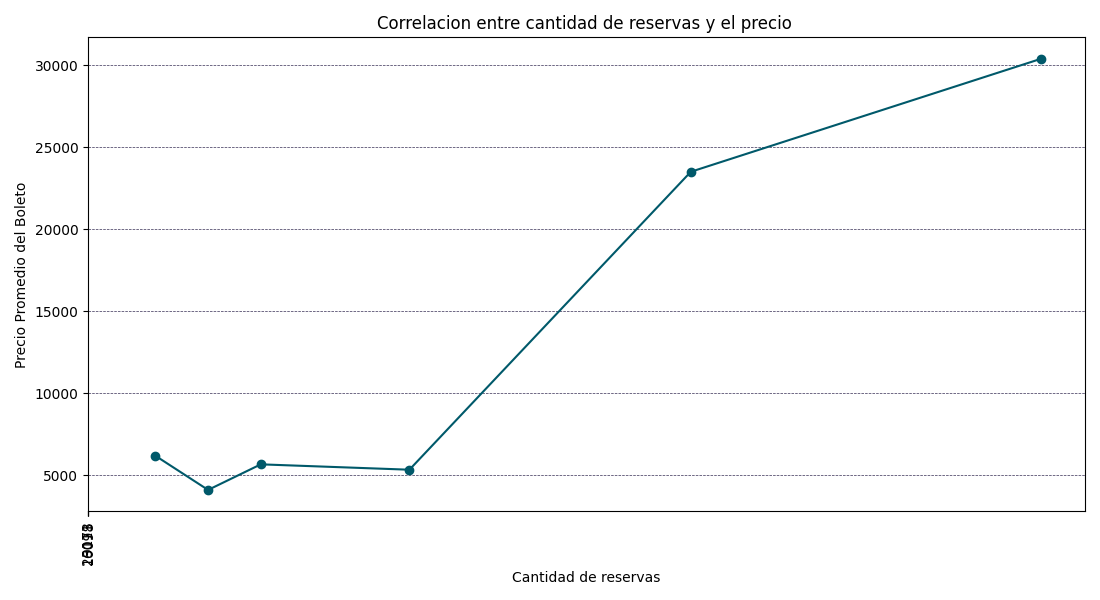
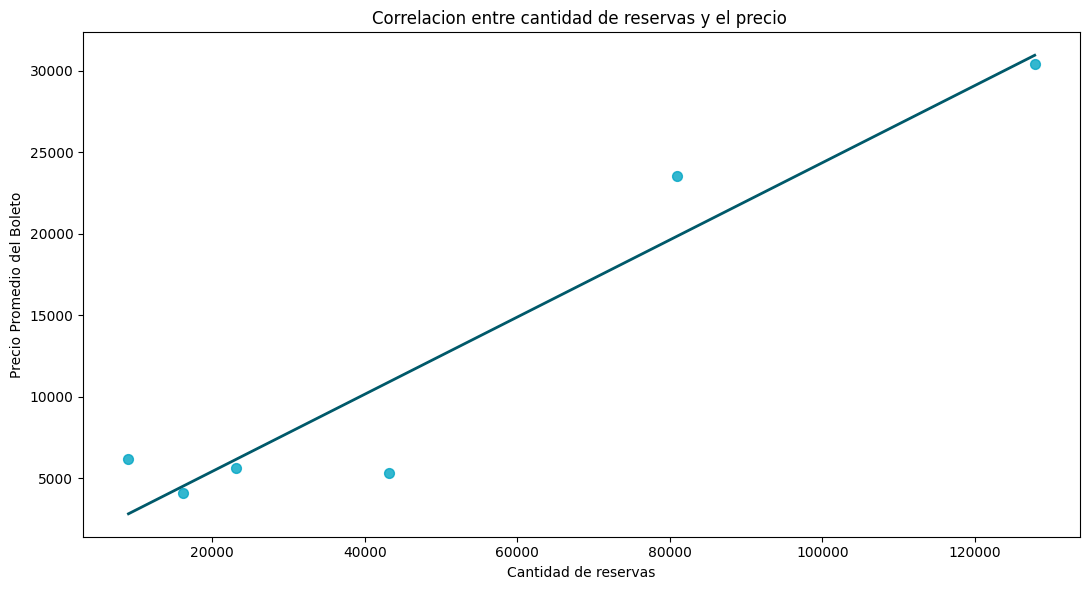
Ajuste en la grafica de correlacion, grafica de correlacion dispersa

diff --git a/scripts/Correlation_matriz.py b/scripts/Correlation_matriz.py
@@ -1,0 +1,67 @@
+import matplotlib.pyplot as plt
+import seaborn as sns
+import pandas as pd
+
+
+def graph_gen(data, colors, size=(), img=False):
+
+    cantidad_reservas = data['airline'].value_counts()
+
+    precio_promedio = data.groupby('airline')['price'].mean()
+
+    correlacion_aerolinea = pd.DataFrame({
+    'cantidad_reservas': cantidad_reservas,
+    'price': precio_promedio
+    }).reset_index()
+
+    correlacion_aerolinea = correlacion_aerolinea.sort_values(by='cantidad_reservas')
+
+# Ordenar por la cantidad de reservas para mejorar la visualización
+    x_data = correlacion_aerolinea['cantidad_reservas']
+    y_data = correlacion_aerolinea['price']
+
+    info_graph = {
+
+     'title': 'Matriz correlacion entre cantidad de reservas y el precio ',
+        'x_name': 'Cantidad de reservas',
+        'y_name': 'Precio Promedio del Boleto',
+        'x_data': x_data,
+        'y_data': y_data,
+        'xticks_step': 2  #mostrar cada 2 etiquetas en el eje X
+
+    }
+    gen_line(info_graph, colors, size, img)
+
+
+def gen_line(info_graph, colors, size, img):
+   if size:
+        plt.figure(figsize=size)
+
+        x_data = info_graph['x_data']
+        y_data = info_graph['y_data']
+    
+        df = pd.DataFrame({
+        info_graph['x_name']: x_data,
+        info_graph['y_name']: y_data
+    })
+    
+        correlacion_matrix = df.corr()
+    
+    # Crear la matriz de calor
+        sns.heatmap(correlacion_matrix, annot=True, cmap=colors, cbar=True, linewidths=0.5, annot_kws={"size": 16})
+    
+    # Títulos y etiquetas
+        plt.title(info_graph['title'])
+        plt.xlabel(info_graph['x_name'])
+        plt.ylabel(info_graph['y_name'])
+    
+    # Ajustar la visualización
+        plt.tight_layout()
+    
+    # Guardar la imagen si se especifica
+        if img:
+            plt.savefig(f"./visualizations/graph_img/{info_graph['title']}.png", bbox_inches='tight')
+        else:
+            plt.show()
+
+

diff --git a/scripts/Correlation_scatter.py b/scripts/Correlation_scatter.py
@@ -30,26 +30,35 @@ def graph_gen(data, colors, size=(), img=False):
         'xticks_step': 2  #mostrar cada 2 etiquetas en el eje X
 
     }
-    gen_line(info_graph, colors, size, img)
+    gen_scatter(info_graph, colors, size, img)
 
-
-def gen_line(info_graph, colors, size, img):
+def gen_scatter(info_graph, colors, size, img):
+    # Si se proporciona un tamaño, ajusta la figura
     if size:
         plt.figure(figsize=size)
-
-    plt.plot(info_graph['x_data'], info_graph['y_data'], marker='o', color=colors[1])
-
-    xticks = range(0, len(info_graph['x_data']), info_graph['xticks_step'])
-    plt.xticks(xticks, info_graph['x_data'][xticks], rotation=90)
+    
+    x_data = info_graph['x_data']
+    y_data = info_graph['y_data']
+    
+    df = pd.DataFrame({
+        info_graph['x_name']: x_data,
+        info_graph['y_name']: y_data
+    })
+    
+    sns.regplot(x=info_graph['x_name'], y=info_graph['y_name'], data=df, 
+                scatter_kws={'color': colors[0], 's': 50}, 
+                line_kws={'color': colors[1], 'linewidth': 2}, 
+                ci=None,  
+                scatter=True)
+    
     plt.title(info_graph['title'])
     plt.xlabel(info_graph['x_name'])
     plt.ylabel(info_graph['y_name'])
-    plt.grid(True, color=colors[7], linestyle='--', linewidth=0.5)
+    
     plt.tight_layout()
     
     if img:
-        plt.savefig(f"./visualizations/graph_img/{info_graph['title']}.png")
+        plt.savefig(f"./visualizations/graph_img/{info_graph['title']}.png", bbox_inches='tight')
     else:
         plt.show()
-
 

diff --git a/main.py b/main.py
@@ -1,5 +1,5 @@
 import pandas as pd
-from scripts import price_days_left, trends_from_destination_cities, airline_popularity, avg_price_airline, price_1_vs_2_days_depature, price_class, dist_price_class, Crr_re_pr
+from scripts import Correlation_matriz, Correlation_scatter, price_days_left, trends_from_destination_cities, airline_popularity, avg_price_airline, price_1_vs_2_days_depature, price_class, dist_price_class
 from scripts.maps import airports_map2,airports_india
 
 airp = airports_india.airports
@@ -11,7 +11,7 @@ palette_colors = ['#00a5c4', '#00596a', '#d5f4f4', '#738484', '#a172a5', '#573e5
 
 #avg_price_airline.graph_gen(data, palette_colors, (8,6), True)
 
-airline_popularity.graph_gen(data, palette_colors, (8,6), True)
+#airline_popularity.graph_gen(data, palette_colors, (8,6), True)
 
 #price_1_vs_2_days_depature.graph_gen(data, palette_colors, (8,6))
 
@@ -21,9 +21,11 @@ airline_popularity.graph_gen(data, palette_colors, (8,6), True)
 
 #price_class.graph_gen(data, palette_colors, (8,6), True)
 
-dist_price_class.graph_gen(data, palette_colors, (8,6))
+#dist_price_class.graph_gen(data, palette_colors, (8,6))
 
-Crr_re_pr.graph_gen(data,palette_colors, (11,6), True)
+Correlation_matriz.graph_gen(data,palette_colors, (11,6), True)
+
+Correlation_scatter.graph_gen(data,palette_colors, (11,6), True)
 
 #airports_map2.airport_map(airp) #map html
 

diff --git a/scripts/__init__.py b/scripts/__init__.py
@@ -4,4 +4,6 @@ from .avg_price_airline import graph_gen
 from .price_1_vs_2_days_depature import graph_gen
 from .price_days_left import graph_gen
 from .price_class import graph_gen
+from .Correlation_scatter import graph_gen
+from .Correlation_matriz import graph_gen
 from .dist_price_class import graph_gen
